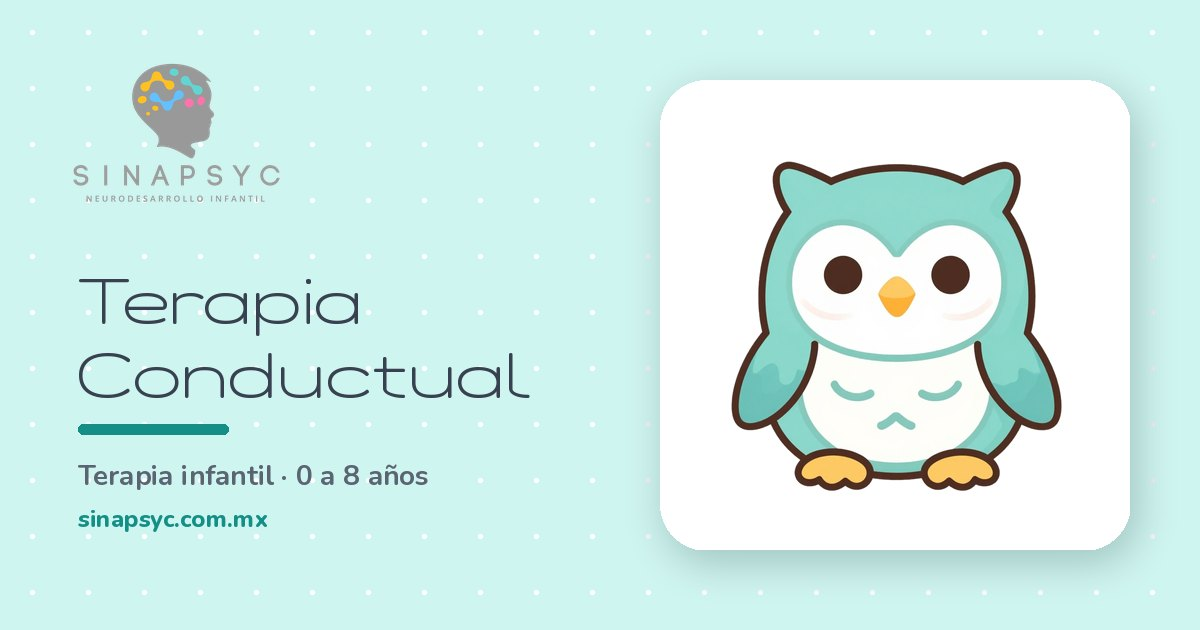
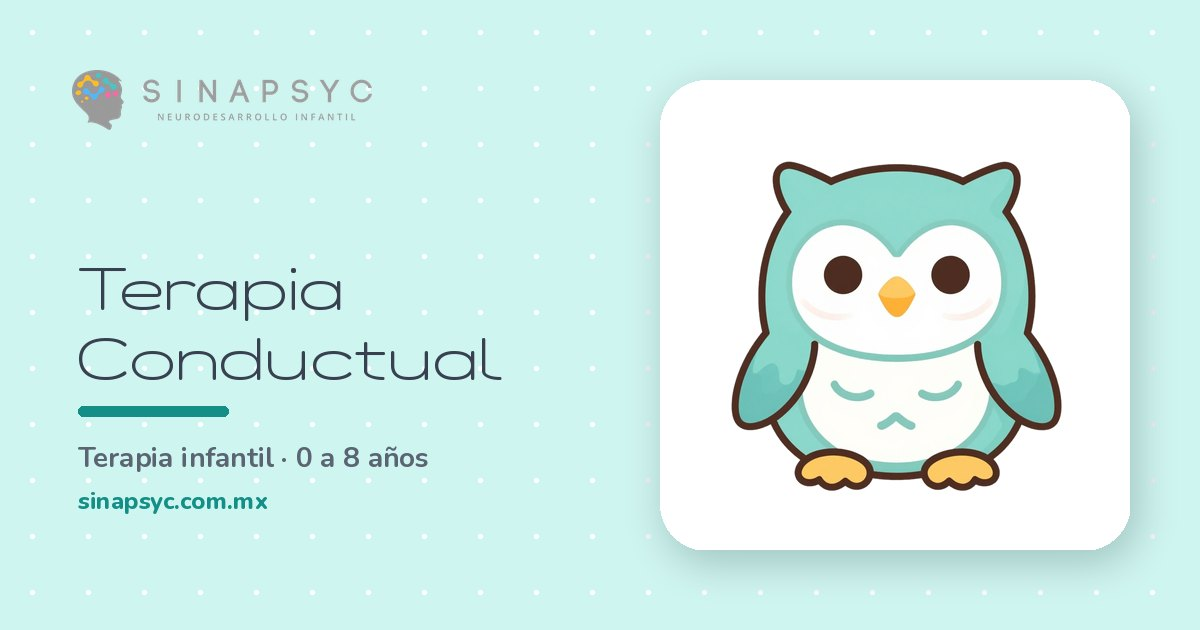
Marca: logotipo horizontal definitivo
- Reemplaza el logo por la versión horizontal final (recortada al
  contenido y optimizada) y regenera el SVG editable por capas.
- Ajusta el alto en header y footer: la proporción pasó de 1.5:1 a 5:1,
  así que un alto menor evita que invada el menú.
- Regenera las 12 imágenes de Open Graph con el logo nuevo.
- Nuevo ícono cuadrado derivado de la cabeza del logo para iOS, en vez
  de la caricatura del zorro.
- El script de OG pasa a vivir en scripts/make-og.py para poder
  regenerarlas cuando cambie la marca.

Changed region(s): [[0.0617, 0.4222, 0.4317, 0.8444], [0.0617, 0.0905, 0.3083, 0.3317], [0.2158, 0.2714, 0.2467, 0.3016]]

diff --git a/src/components/Footer.tsx b/src/components/Footer.tsx
@@ -18,13 +18,13 @@ export default function Footer() {
 
       <div className="mx-auto grid w-full max-w-6xl gap-10 px-5 pb-10 pt-16 sm:px-8 md:grid-cols-[1.4fr_1fr_1fr_1.2fr]">
         <div>
-          <div className="inline-flex rounded-2xl bg-cream/95 px-3 py-2">
+          <div className="inline-flex rounded-2xl bg-cream/95 px-4 py-3">
             <Image
               src="/img/logo-sinapsyc.png"
-              alt="Sinapsyc"
-              width={160}
-              height={100}
-              className="h-10 w-auto"
+              alt="Sinapsyc — Neurodesarrollo Infantil"
+              width={1200}
+              height={239}
+              className="h-9 w-auto"
             />
           </div>
           <p className="mt-4 max-w-xs text-sm leading-relaxed text-cream/70">

diff --git a/src/components/Header.tsx b/src/components/Header.tsx
@@ -39,12 +39,13 @@ export default function Header() {
     >
       <nav className="mx-auto flex h-20 w-full max-w-6xl items-center justify-between px-5 sm:px-8">
         <Link href="/" className="flex items-center gap-2" aria-label="Sinapsyc inicio">
+          {/* Logo horizontal (≈5:1): alto contenido para no invadir el menú. */}
           <Image
             src="/img/logo-sinapsyc.png"
-            alt="Sinapsyc"
-            width={150}
-            height={94}
-            className="h-11 w-auto"
+            alt="Sinapsyc — Neurodesarrollo Infantil"
+            width={1200}
+            height={239}
+            className="h-8 w-auto sm:h-9"
             priority
           />
         </Link>

diff --git a/src/lib/schema.ts b/src/lib/schema.ts
@@ -63,6 +63,8 @@ export function clinicSchema() {
       "@type": "ImageObject",
       "@id": LOGO_ID,
       url: `${site.url}/img/logo-sinapsyc.png`,
+      width: 1200,
+      height: 239,
       caption: `${site.name} — ${site.tagline}`,
     },
     priceRange: "$$",
@@ -124,6 +126,8 @@ export function organizationSchema() {
       "@type": "ImageObject",
       "@id": LOGO_ID,
       url: `${site.url}/img/logo-sinapsyc.png`,
+      width: 1200,
+      height: 239,
     },
     description: site.description,
     sameAs: SAME_AS,

diff --git a/src/app/layout.tsx b/src/app/layout.tsx
@@ -71,7 +71,7 @@ export const metadata: Metadata = {
     follow: true,
     googleBot: { index: true, follow: true, "max-image-preview": "large" },
   },
-  icons: { icon: "/favicon.svg", apple: "/img/mascot-fox.jpg" },
+  icons: { icon: "/favicon.svg", apple: "/img/icon-sinapsyc.png" },
 };
 
 export default function RootLayout({

diff --git a/scripts/make-og.py b/scripts/make-og.py
@@ -1,0 +1,204 @@
+#!/usr/bin/env python3
+"""
+Genera las imágenes de Open Graph (1200x630) de Sinapsyc.
+
+Se ejecuta a mano cuando cambia la marca (logo, lema) o los programas:
+
+    python3 scripts/make-og.py
+
+Requiere Pillow y las fuentes de la marca en /tmp/ogfonts (el script las
+descarga si faltan). Las imágenes resultantes viven en public/og/.
+"""
+import os
+import urllib.request
+from PIL import Image, ImageDraw, ImageFont, ImageFilter
+
+ROOT = os.path.join(os.path.dirname(os.path.dirname(os.path.abspath(__file__))), "public")
+OUT = os.path.join(ROOT, "og")
+FONTS = "/tmp/ogfonts"
+W, H = 1200, 630
+
+CREAM = (255, 249, 240)
+INK = (56, 65, 80)
+INK_SOFT = (91, 100, 114)
+TEAL = (35, 179, 170)
+
+FONT_URLS = {
+    "fredoka.ttf": "https://github.com/google/fonts/raw/main/ofl/fredoka/Fredoka%5Bwdth%2Cwght%5D.ttf",
+    "nunito.ttf": "https://github.com/google/fonts/raw/main/ofl/nunito/Nunito%5Bwght%5D.ttf",
+}
+
+
+def ensure_fonts():
+    os.makedirs(FONTS, exist_ok=True)
+    for name, url in FONT_URLS.items():
+        path = os.path.join(FONTS, name)
+        if not os.path.exists(path):
+            print(f"descargando {name}…")
+            urllib.request.urlretrieve(url, path)
+
+
+def fredoka(size, wght=600):
+    f = ImageFont.truetype(os.path.join(FONTS, "fredoka.ttf"), size)
+    f.set_variation_by_axes([100, wght])
+    return f
+
+
+def nunito(size, wght=700):
+    f = ImageFont.truetype(os.path.join(FONTS, "nunito.ttf"), size)
+    f.set_variation_by_axes([wght])
+    return f
+
+
+def logo(width):
+    """Logo horizontal escalado a un ancho dado, conservando transparencia."""
+    im = Image.open(os.path.join(ROOT, "img/logo-sinapsyc.png")).convert("RGBA")
+    return im.resize((width, round(width * im.size[1] / im.size[0])), Image.LANCZOS)
+
+
+def soft_blob(canvas, xy, r, color, alpha=110):
+    blob = Image.new("RGBA", (W, H), (0, 0, 0, 0))
+    ImageDraw.Draw(blob).ellipse(
+        [xy[0] - r, xy[1] - r, xy[0] + r, xy[1] + r], fill=color + (alpha,)
+    )
+    canvas.alpha_composite(blob.filter(ImageFilter.GaussianBlur(60)))
+
+
+def rounded(im, radius):
+    mask = Image.new("L", im.size, 0)
+    ImageDraw.Draw(mask).rounded_rectangle(
+        [0, 0, im.size[0], im.size[1]], radius=radius, fill=255
+    )
+    out = im.convert("RGBA")
+    out.putalpha(mask)
+    return out
+
+
+def shadow_card(canvas, box, radius=36):
+    sh = Image.new("RGBA", (W, H), (0, 0, 0, 0))
+    ImageDraw.Draw(sh).rounded_rectangle(
+        [box[0] + 6, box[1] + 12, box[2] + 6, box[3] + 12],
+        radius=radius,
+        fill=(20, 60, 60, 60),
+    )
+    canvas.alpha_composite(sh.filter(ImageFilter.GaussianBlur(18)))
+
+
+def base_canvas():
+    c = Image.new("RGBA", (W, H), CREAM + (255,))
+    soft_blob(c, (150, 90), 160, (163, 235, 227))
+    soft_blob(c, (1050, 120), 170, (255, 225, 239))
+    soft_blob(c, (1100, 560), 160, (220, 239, 255))
+    soft_blob(c, (120, 560), 150, (255, 242, 214))
+    d = ImageDraw.Draw(c)
+    for x in range(30, W, 56):
+        for y in range(30, H, 56):
+            d.ellipse([x, y, x + 4, y + 4], fill=(53, 196, 188, 28))
+    return c
+
+
+def wrap(draw, text, font, maxw):
+    words, lines, cur = text.split(), [], ""
+    for w in words:
+        t = (cur + " " + w).strip()
+        if draw.textlength(t, font=font) <= maxw:
+            cur = t
+        else:
+            lines.append(cur)
+            cur = w
+    lines.append(cur)
+    return lines
+
+
+def make_default():
+    c = base_canvas()
+    lg = logo(430)
+    c.alpha_composite(lg, (78, 120))
+
+    d = ImageDraw.Draw(c)
+    f1 = fredoka(46)
+    d.text((80, 430), "Abrazamos infancias,", font=f1, fill=INK)
+    d.text((80, 486), "iluminamos caminos", font=f1, fill=TEAL)
+    d.text(
+        (82, 562),
+        "Centro de Neurodesarrollo Infantil · 0 a 8 años · Guadalajara",
+        font=nunito(24),
+        fill=INK_SOFT,
+    )
+
+    hero = Image.open(os.path.join(ROOT, "img/hero-scene.jpg")).convert("RGB")
+    hw, hh = 480, 470
+    ratio = max(hw / hero.size[0], hh / hero.size[1])
+    hero = hero.resize(
+        (round(hero.size[0] * ratio), round(hero.size[1] * ratio)), Image.LANCZOS
+    )
+    hero = hero.crop(
+        (
+            (hero.size[0] - hw) // 2,
+            (hero.size[1] - hh) // 2,
+            (hero.size[0] - hw) // 2 + hw,
+            (hero.size[1] - hh) // 2 + hh,
+        )
+    )
+    box = (672, 80, 672 + hw, 80 + hh)
+    shadow_card(c, box, 42)
+    c.alpha_composite(rounded(hero, 42), (box[0], box[1]))
+
+    c.convert("RGB").save(os.path.join(OUT, "og-default.jpg"), quality=88, optimize=True)
+    print("og-default.jpg")
+
+
+PROGRAMS = [
+    ("terapia-ocupacional", "Terapia Ocupacional", "prog-ocupacional", (207, 245, 240), (20, 143, 136)),
+    ("integracion-sensorial", "Terapia de Integración Sensorial", "prog-sensorial", (220, 239, 255), (47, 131, 198)),
+    ("terapia-fisica", "Terapia Física", "prog-fisica", (255, 242, 214), (200, 130, 20)),
+    ("terapia-alimentacion", "Terapia de Alimentación", "prog-alimentacion", (255, 225, 239), (217, 75, 140)),
+    ("terapia-conductual", "Terapia Conductual", "prog-conductual", (207, 245, 240), (20, 143, 136)),
+    ("terapia-lenguaje", "Terapia de Lenguaje", "prog-lenguaje", (255, 225, 239), (217, 75, 140)),
+    ("terapia-aprendizaje", "Terapia de Aprendizaje", "prog-aprendizaje", (220, 239, 255), (47, 131, 198)),
+    ("intervencion-temprana", "Intervención Temprana", "prog-temprana", (255, 242, 214), (200, 130, 20)),
+    ("evaluacion-neuropsicologica", "Evaluación Neuropsicológica", "prog-evaluacion", (220, 239, 255), (47, 131, 198)),
+    ("terapia-grupal", "Terapia Grupal", "prog-grupal", (207, 245, 240), (20, 143, 136)),
+    ("clases-psicomotricidad", "Clases de Psicomotricidad", "prog-psicomotricidad", (255, 242, 214), (200, 130, 20)),
+]
+
+
+def make_program(slug, title, imgname, bg, accent):
+    c = Image.new("RGBA", (W, H), bg + (255,))
+    d = ImageDraw.Draw(c)
+    for x in range(30, W, 56):
+        for y in range(30, H, 56):
+            d.ellipse([x, y, x + 4, y + 4], fill=(255, 255, 255, 90))
+
+    ext = "png" if os.path.exists(os.path.join(ROOT, f"img/{imgname}.png")) else "jpg"
+    art = Image.open(os.path.join(ROOT, f"img/{imgname}.{ext}")).convert("RGBA")
+    art.thumbnail((430, 430), Image.LANCZOS)
+    cardw = 470
+    box = (660, 80, 660 + cardw, 80 + cardw)
+    shadow_card(c, box, 46)
+    card = Image.new("RGBA", (cardw, cardw), (255, 255, 255, 255))
+    card.alpha_composite(art, ((cardw - art.size[0]) // 2, (cardw - art.size[1]) // 2))
+    c.alpha_composite(rounded(card, 46), (box[0], box[1]))
+
+    c.alpha_composite(logo(300), (72, 70))
+
+    f1 = fredoka(60)
+    y = 250
+    for ln in wrap(d, title, f1, 540):
+        d.text((76, y), ln, font=f1, fill=INK)
+        y += 70
+    d.rounded_rectangle([78, y + 16, 78 + 150, y + 26], radius=5, fill=accent)
+    d.text((78, y + 48), "Terapia infantil · 0 a 8 años", font=nunito(28), fill=INK_SOFT)
+    d.text((78, y + 94), "sinapsyc.com.mx", font=nunito(24, 800), fill=accent)
+
+    c.convert("RGB").save(os.path.join(OUT, f"og-{slug}.jpg"), quality=86, optimize=True)
+    print(f"og-{slug}.jpg")
+
+
+if __name__ == "__main__":
+    ensure_fonts()
+    os.makedirs(OUT, exist_ok=True)
+    make_default()
+    for p in PROGRAMS:
+        make_program(*p)
+    print(f"listo: {len(os.listdir(OUT))} imágenes en public/og/")
